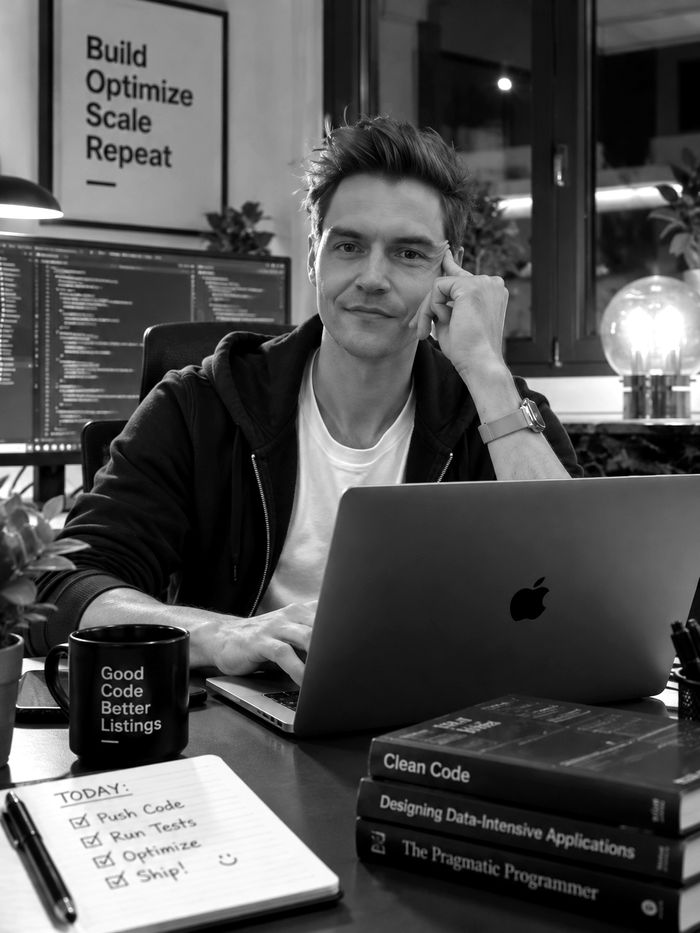
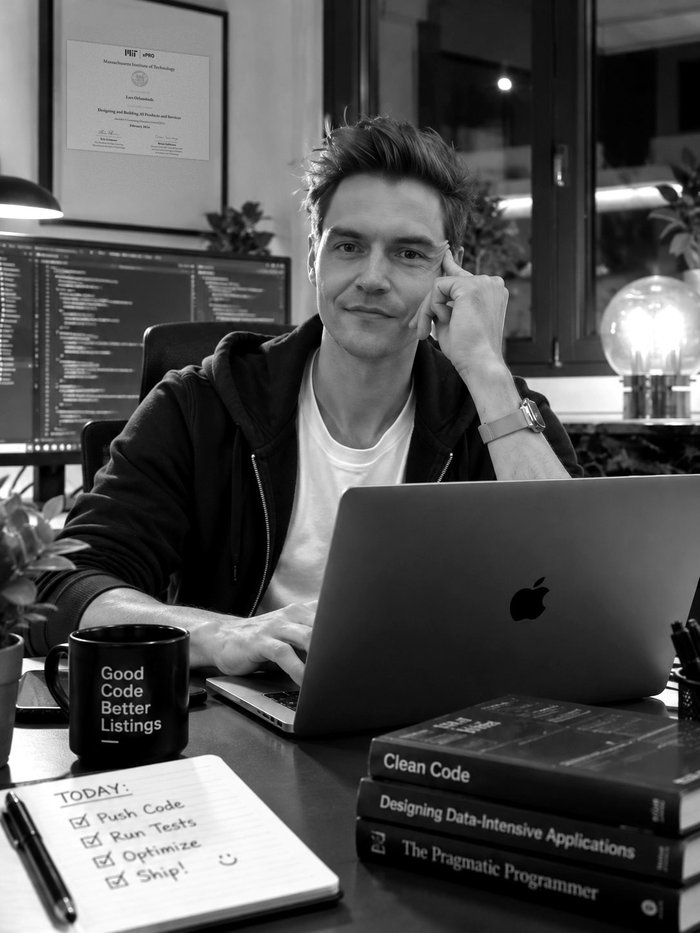
Profilbild: MIT-Zertifikat statt Poster an der Wand
Claude-Session: https://claude.ai/code/session_01JnJhZpiW9LUHGCpXo7Yde3

Changed region(s): [[0.12, 0.0311, 0.3, 0.2176]]

diff --git a/index.html b/index.html
@@ -742,7 +742,7 @@ html[lang="de"] .big-cta{font-size:clamp(28px,5vw,76px)}
   <div class="wrap founder-grid">
     <aside class="portrait-col">
       <div class="portrait">
-        <img src="/assets/lars-schreibtisch-hoch.jpg" srcset="/assets/lars-schreibtisch-hoch-700.jpg 700w, /assets/lars-schreibtisch-hoch.jpg 1086w" sizes="(max-width: 960px) 100vw, 45vw" width="1086" height="1448" alt="Lars Orlamünde, Founder &amp; CEO der TradeX International AG, an seinem Schreibtisch" data-en-alt="Lars Orlamünde, Founder &amp; CEO of TradeX International AG, at his desk">
+        <img src="/assets/lars-schreibtisch-hoch.jpg?v=2" srcset="/assets/lars-schreibtisch-hoch-700.jpg?v=2 700w, /assets/lars-schreibtisch-hoch.jpg?v=2 1086w" sizes="(max-width: 960px) 100vw, 45vw" width="1086" height="1448" alt="Lars Orlamünde, Founder &amp; CEO der TradeX International AG, an seinem Schreibtisch" data-en-alt="Lars Orlamünde, Founder &amp; CEO of TradeX International AG, at his desk">
         <span class="vign" aria-hidden="true"></span>
         <span class="shade" aria-hidden="true"></span>
         <span class="corner c1"></span><span class="corner c2"></span><span class="corner c3"></span><span class="corner c4"></span>
